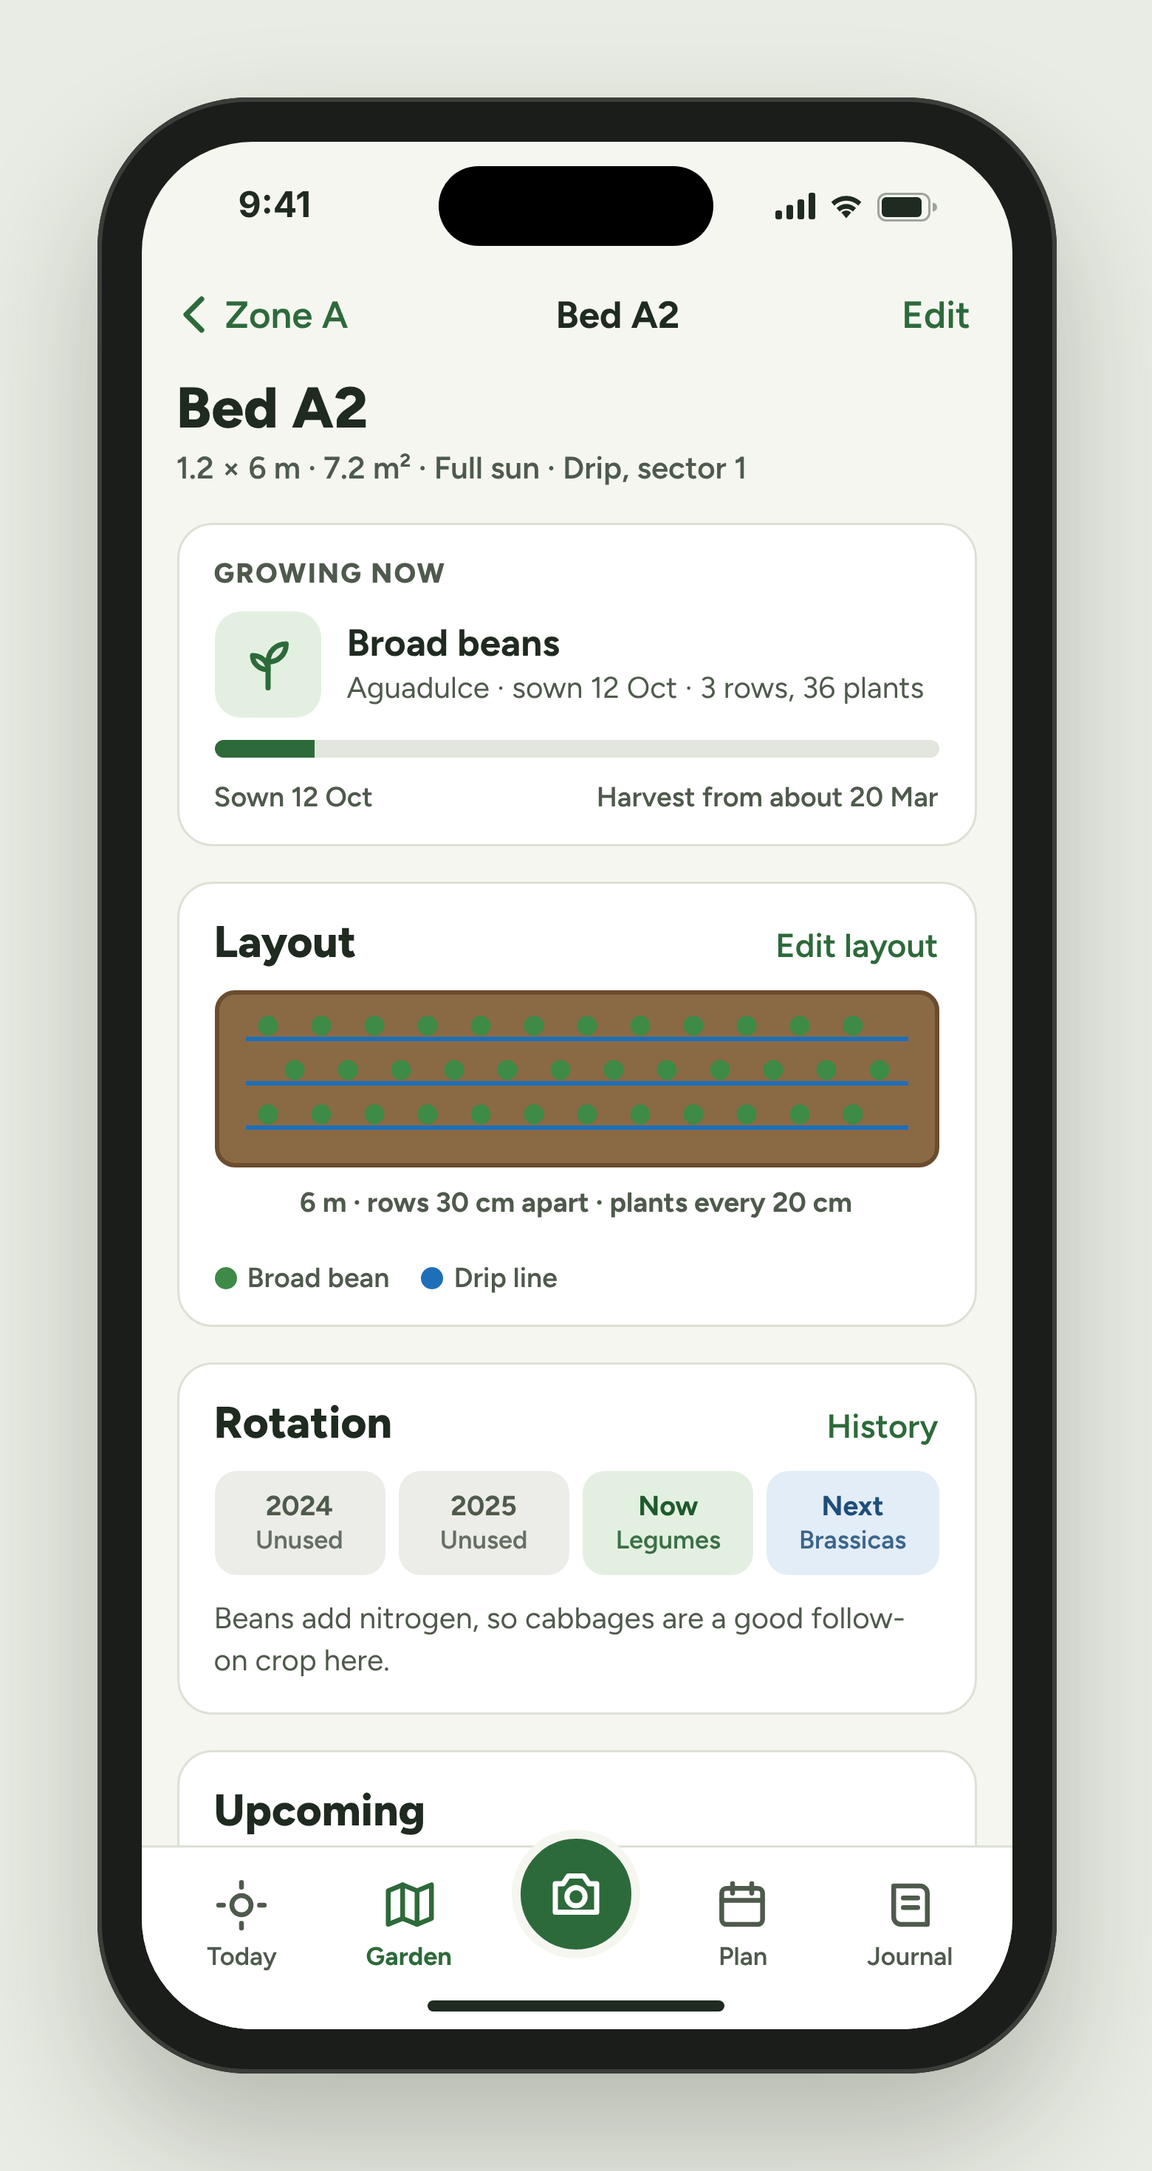
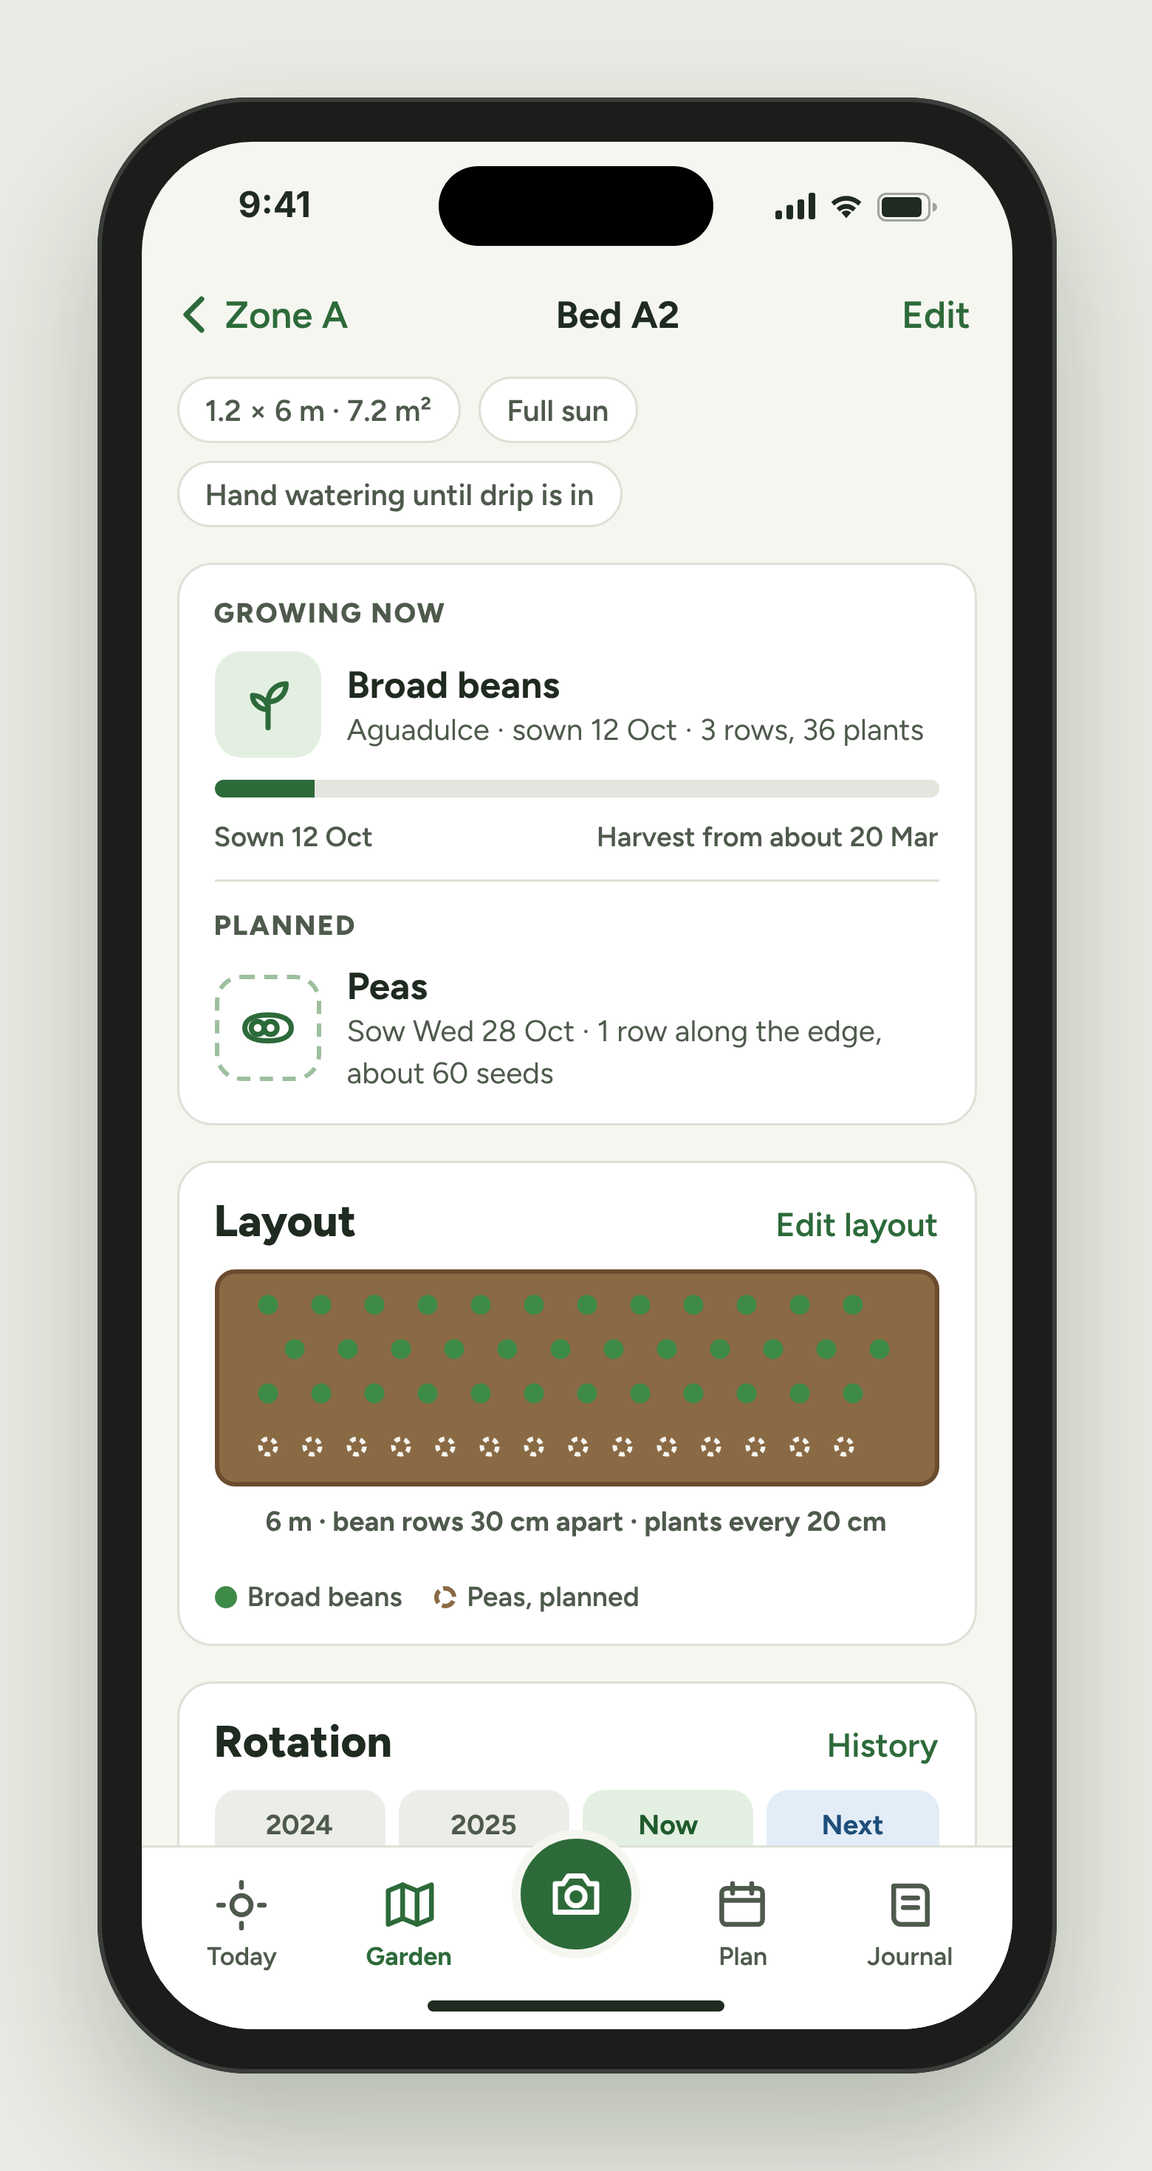
Design C3 bed detail: no duplicate title, fact chips, planned peas, hand watering until drip is in
Claude-Session: https://claude.ai/code/session_015NynAjU4naPZwzmeuGazot

Changed region(s): [[0.1538, 0.1548, 0.8308, 0.8667], [0.4, 0.8357, 0.4308, 0.8667]]

diff --git a/design/source/C3-bed-detail-full.html b/design/source/C3-bed-detail-full.html
@@ -1,0 +1,128 @@
+<!doctype html>
+<html lang="en">
+<head>
+<meta charset="utf-8">
+<title>C3 Bed detail</title>
+<link href="https://fonts.googleapis.com/css2?family=Figtree:wght@400;500;600;700;800&display=swap" rel="stylesheet">
+<link rel="stylesheet" href="frame.css">
+<style>
+  .navbar { position: relative; z-index: 20; height: 48px; padding: 0 12px; display: flex; align-items: center; justify-content: space-between; flex: none; }
+  .navbar .title { font-size: 17px; font-weight: 700; }
+  .navbtn { min-width: 44px; height: 44px; display: flex; align-items: center; justify-content: center; }
+  .content { flex: 1; overflow: hidden; padding: 4px 16px 0; display: flex; flex-direction: column; gap: 16px; }
+  h1 { margin: 0; font-size: 26px; font-weight: 800; line-height: 1.1; }
+  .facts { display: flex; flex-wrap: wrap; gap: 8px; }
+  .facts span { background: #fff; border: 1px solid var(--line); border-radius: 999px; padding: 6px 12px; font-size: 13.5px; font-weight: 600; color: var(--muted); }
+  .meta { font-size: 14px; color: var(--muted); font-weight: 600; margin-top: 4px; }
+  .card { background: #fff; border: 1px solid var(--line); border-radius: 16px; padding: 14px 16px; display: flex; flex-direction: column; gap: 10px; }
+  .eyebrow { font-size: 12.5px; font-weight: 800; letter-spacing: .06em; text-transform: uppercase; color: var(--muted); }
+  h2 { margin: 0; font-size: 20px; font-weight: 800; }
+  .sechead { display: flex; justify-content: space-between; align-items: baseline; }
+  .sechead a { font-size: 15px; font-weight: 600; color: var(--green); text-decoration: none; }
+  .crop { display: flex; gap: 12px; align-items: center; }
+  .cropicon { width: 48px; height: 48px; border-radius: 12px; background: var(--green-soft); display: flex; align-items: center; justify-content: center; flex: none; }
+  .crop b { font-size: 17px; display: block; }
+  .crop span { font-size: 13.5px; color: var(--muted); }
+  .bar { height: 8px; border-radius: 4px; background: #E3E6DE; overflow: hidden; }
+  .bar i { display: block; height: 100%; width: 14%; background: var(--green); }
+  .barlabels { display: flex; justify-content: space-between; font-size: 12.5px; color: var(--muted); font-weight: 600; }
+  .legend { display: flex; gap: 14px; font-size: 12.5px; color: var(--muted); font-weight: 600; }
+  .legend i { display: inline-block; width: 10px; height: 10px; border-radius: 999px; margin-right: 5px; vertical-align: -1px; }
+  .rot { display: grid; grid-template-columns: repeat(4, minmax(0, 1fr)); gap: 6px; }
+  .rot div { border-radius: 10px; padding: 8px 6px; text-align: center; font-size: 12.5px; font-weight: 700; line-height: 1.3; }
+  .rot div span { display: block; font-size: 11.5px; font-weight: 600; opacity: .85; }
+  .task { display: flex; gap: 12px; align-items: center; min-height: 44px; }
+  .box { width: 22px; height: 22px; border-radius: 7px; border: 2px solid #A9B1A4; flex: none; }
+  .task b { font-size: 15px; display: block; }
+  .task span { font-size: 13px; color: var(--muted); }
+  nav.tabs { position: absolute; left: 0; right: 0; bottom: 0; z-index: 40; background: #fff; border-top: 1px solid var(--line); padding: 8px 8px 26px; display: grid; grid-template-columns: repeat(5, minmax(0, 1fr)); align-items: end; }
+  nav.tabs a { text-decoration: none; color: var(--muted); display: flex; flex-direction: column; align-items: center; gap: 3px; font-size: 11.5px; font-weight: 600; min-height: 48px; justify-content: flex-end; }
+  nav.tabs a.on { color: var(--green); font-weight: 700; }
+  nav.tabs .cam { width: 58px; height: 58px; border-radius: 999px; background: var(--green); display: flex; align-items: center; justify-content: center; margin-top: -22px; border: 4px solid var(--bg); }
+</style>
+<style>.stage{height:1300px}.phone{height:1240px}.screen{height:1200px}</style>
+</head>
+<body>
+<div class="stage"><div class="phone"><div class="screen">
+  <div class="island"></div>
+  <div class="status">
+    <span>9:41</span>
+    <span class="icons">
+      <svg width="18" height="12" viewBox="0 0 18 12"><rect x="0" y="8" width="3" height="4" rx="1" fill="#1F2A20"/><rect x="5" y="5.5" width="3" height="6.5" rx="1" fill="#1F2A20"/><rect x="10" y="3" width="3" height="9" rx="1" fill="#1F2A20"/><rect x="15" y="0" width="3" height="12" rx="1" fill="#1F2A20"/></svg>
+      <svg width="16" height="12" viewBox="0 0 16 12"><path d="M8 11.5l2.2-2.6a3.2 3.2 0 0 0-4.4 0z" fill="#1F2A20"/><path d="M3.6 6.9a6.3 6.3 0 0 1 8.8 0l-1.4 1.6a4.2 4.2 0 0 0-6 0z" fill="#1F2A20"/><path d="M1.2 4.2a9.7 9.7 0 0 1 13.6 0l-1.4 1.6a7.6 7.6 0 0 0-10.8 0z" fill="#1F2A20"/></svg>
+      <svg width="27" height="13" viewBox="0 0 27 13"><rect x="0.5" y="0.5" width="23" height="12" rx="3.5" fill="none" stroke="#1F2A20" opacity=".4"/><rect x="2" y="2" width="18" height="9" rx="2" fill="#1F2A20"/><path d="M25 4.5v4a2 2 0 0 0 0-4z" fill="#1F2A20" opacity=".4"/></svg>
+    </span>
+  </div>
+
+  <div class="navbar">
+    <div class="navbtn" aria-label="Back to Zone A" style="gap: 2px; color: var(--green); font-size: 17px; font-weight: 600"><svg width="24" height="24" viewBox="0 0 24 24" fill="none" stroke="#2D6A3A" stroke-width="2.4" stroke-linecap="round" stroke-linejoin="round"><path d="M15 5l-7 7 7 7"/></svg>Zone A</div>
+    <span class="title">Bed A2</span>
+    <div class="navbtn" style="color: var(--green); font-size: 17px; font-weight: 600; padding: 0 6px">Edit</div>
+  </div>
+
+  <div class="content">
+    <div class="facts">
+      <span>1.2 × 6 m · 7.2 m²</span><span>Full sun</span><span>Hand watering until drip is in</span>
+    </div>
+
+    <div class="card">
+      <span class="eyebrow">Growing now</span>
+      <div class="crop">
+        <div class="cropicon"><svg width="28" height="28" viewBox="0 0 24 24" fill="none" stroke="#2D6A3A" stroke-width="2" stroke-linecap="round" stroke-linejoin="round"><path d="M12 21V11"/><path d="M12 11c0-4 3-7 7-7 0 4-3 7-7 7z"/><path d="M12 14c0-3-2.5-5.5-6-5.5 0 3 2.5 5.5 6 5.5z"/></svg></div>
+        <div><b>Broad beans</b><span>Aguadulce · sown 12 Oct · 3 rows, 36 plants</span></div>
+      </div>
+      <div class="bar"><i></i></div>
+      <div class="barlabels"><span>Sown 12 Oct</span><span>Harvest from about 20 Mar</span></div>
+      <div style="height: 1px; background: var(--line); margin: 2px 0"></div>
+      <span class="eyebrow">Planned</span>
+      <div class="crop">
+        <div class="cropicon" style="background: #fff; border: 2px dashed #9DBF9F"><svg width="28" height="28" viewBox="0 0 24 24" fill="none" stroke="#2D6A3A" stroke-width="2" stroke-linecap="round" stroke-linejoin="round"><circle cx="8" cy="12" r="2.5"/><circle cx="13" cy="12" r="2.5"/><path d="M3 12c0-3 3-5 9-5s9 2 9 5-3 5-9 5-9-2-9-5z"/></svg></div>
+        <div><b>Peas</b><span>Sow Wed 28 Oct · 1 row along the edge, about 60 seeds</span></div>
+      </div>
+    </div>
+
+    <div class="card">
+      <div class="sechead"><h2>Layout</h2><a>Edit layout</a></div>
+      <svg width="327" height="130" viewBox="0 0 327 130" role="img" aria-label="Bed from above: three rows of broad beans 30 cm apart and one planned row of peas">
+        <rect x="1" y="1" width="325" height="96" rx="8" fill="#8A6A45" stroke="#6B4C2E" stroke-width="2"/>
+        <g fill="none" stroke="#F5F6F0" stroke-width="2" stroke-dasharray="2.5 2"><circle cx="24" cy="80" r="3.5"/><circle cx="44" cy="80" r="3.5"/><circle cx="64" cy="80" r="3.5"/><circle cx="84" cy="80" r="3.5"/><circle cx="104" cy="80" r="3.5"/><circle cx="124" cy="80" r="3.5"/><circle cx="144" cy="80" r="3.5"/><circle cx="164" cy="80" r="3.5"/><circle cx="184" cy="80" r="3.5"/><circle cx="204" cy="80" r="3.5"/><circle cx="224" cy="80" r="3.5"/><circle cx="244" cy="80" r="3.5"/><circle cx="264" cy="80" r="3.5"/><circle cx="284" cy="80" r="3.5"/></g>
+        <g fill="#3E8A47">
+          <circle cx="24" cy="16" r="4.5"/><circle cx="48" cy="16" r="4.5"/><circle cx="72" cy="16" r="4.5"/><circle cx="96" cy="16" r="4.5"/><circle cx="120" cy="16" r="4.5"/><circle cx="144" cy="16" r="4.5"/><circle cx="168" cy="16" r="4.5"/><circle cx="192" cy="16" r="4.5"/><circle cx="216" cy="16" r="4.5"/><circle cx="240" cy="16" r="4.5"/><circle cx="264" cy="16" r="4.5"/><circle cx="288" cy="16" r="4.5"/>
+          <circle cx="36" cy="36" r="4.5"/><circle cx="60" cy="36" r="4.5"/><circle cx="84" cy="36" r="4.5"/><circle cx="108" cy="36" r="4.5"/><circle cx="132" cy="36" r="4.5"/><circle cx="156" cy="36" r="4.5"/><circle cx="180" cy="36" r="4.5"/><circle cx="204" cy="36" r="4.5"/><circle cx="228" cy="36" r="4.5"/><circle cx="252" cy="36" r="4.5"/><circle cx="276" cy="36" r="4.5"/><circle cx="300" cy="36" r="4.5"/>
+          <circle cx="24" cy="56" r="4.5"/><circle cx="48" cy="56" r="4.5"/><circle cx="72" cy="56" r="4.5"/><circle cx="96" cy="56" r="4.5"/><circle cx="120" cy="56" r="4.5"/><circle cx="144" cy="56" r="4.5"/><circle cx="168" cy="56" r="4.5"/><circle cx="192" cy="56" r="4.5"/><circle cx="216" cy="56" r="4.5"/><circle cx="240" cy="56" r="4.5"/><circle cx="264" cy="56" r="4.5"/><circle cx="288" cy="56" r="4.5"/>
+        </g>
+        <text x="163" y="118" text-anchor="middle" font-family="Figtree, sans-serif" font-size="12.5" font-weight="700" fill="#4E5A4C">6 m · bean rows 30 cm apart · plants every 20 cm</text>
+      </svg>
+      <div class="legend"><span><i style="background:#3E8A47"></i>Broad beans</span><span><i style="background:#fff; border: 2px dashed #8A6A45; box-sizing: border-box"></i>Peas, planned</span></div>
+    </div>
+
+    <div class="card">
+      <div class="sechead"><h2>Rotation</h2><a>History</a></div>
+      <div class="rot">
+        <div style="background:#ECEDE8; color:#4E5A4C">2024<span>Unused</span></div>
+        <div style="background:#ECEDE8; color:#4E5A4C">2025<span>Unused</span></div>
+        <div style="background:var(--green-soft); color:var(--green-ink)">Now<span>Legumes</span></div>
+        <div style="background:#E3EDF7; color:#1E4E7A">Next<span>Brassicas</span></div>
+      </div>
+      <span style="font-size: 13.5px; color: var(--muted); line-height: 1.4">Beans and peas add nitrogen, so cabbages are a good follow-on crop here next autumn.</span>
+    </div>
+
+    <div class="card">
+      <h2>Upcoming</h2>
+      <div class="task"><span class="box"></span><div><b>Check the beans have come up</b><span>This week · 5 min</span></div></div>
+      <div class="task"><span class="box"></span><div><b>Sow peas</b><span>Wed 28 Oct · 45 min</span></div></div>
+      <div class="task"><span class="box"></span><div><b>Add supports for beans and peas</b><span>Mid-Nov · 30 min · canes, string</span></div></div>
+    </div>
+  </div>
+
+  <nav class="tabs" aria-label="Main">
+    <a><svg width="26" height="26" viewBox="0 0 24 24" fill="none" stroke="currentColor" stroke-width="2" stroke-linecap="round" stroke-linejoin="round"><circle cx="12" cy="12" r="4"/><path d="M12 2.5v2M12 19.5v2M2.5 12h2M19.5 12h2"/></svg>Today</a>
+    <a class="on" aria-current="page"><svg width="26" height="26" viewBox="0 0 24 24" fill="none" stroke="currentColor" stroke-width="2" stroke-linecap="round" stroke-linejoin="round"><path d="M3 6l6-2.5 6 2.5 6-2.5v14l-6 2.5-6-2.5-6 2.5z"/><path d="M9 3.5v14M15 6v14"/></svg>Garden</a>
+    <a aria-label="Snap and Ask" style="justify-content: center"><span class="cam"><svg width="28" height="28" viewBox="0 0 24 24" fill="none" stroke="#fff" stroke-width="2" stroke-linecap="round" stroke-linejoin="round"><path d="M4 8h3l2-3h6l2 3h3v11H4z"/><circle cx="12" cy="13" r="3.5"/></svg></span></a>
+    <a><svg width="26" height="26" viewBox="0 0 24 24" fill="none" stroke="currentColor" stroke-width="2" stroke-linecap="round" stroke-linejoin="round"><rect x="3.5" y="5" width="17" height="15" rx="2"/><path d="M3.5 10h17M8 3v4M16 3v4"/></svg>Plan</a>
+    <a><svg width="26" height="26" viewBox="0 0 24 24" fill="none" stroke="currentColor" stroke-width="2" stroke-linecap="round" stroke-linejoin="round"><path d="M5 4h11a3 3 0 0 1 3 3v13H8a3 3 0 0 1-3-3z"/><path d="M9 9h6M9 13h6"/></svg>Journal</a>
+  </nav>
+  <div class="home"></div>
+</div></div></div>
+</body>
+</html>

diff --git a/design/source/C3-bed-detail.html b/design/source/C3-bed-detail.html
@@ -11,6 +11,8 @@
   .navbtn { min-width: 44px; height: 44px; display: flex; align-items: center; justify-content: center; }
   .content { flex: 1; overflow: hidden; padding: 4px 16px 0; display: flex; flex-direction: column; gap: 16px; }
   h1 { margin: 0; font-size: 26px; font-weight: 800; line-height: 1.1; }
+  .facts { display: flex; flex-wrap: wrap; gap: 8px; }
+  .facts span { background: #fff; border: 1px solid var(--line); border-radius: 999px; padding: 6px 12px; font-size: 13.5px; font-weight: 600; color: var(--muted); }
   .meta { font-size: 14px; color: var(--muted); font-weight: 600; margin-top: 4px; }
   .card { background: #fff; border: 1px solid var(--line); border-radius: 16px; padding: 14px 16px; display: flex; flex-direction: column; gap: 10px; }
   .eyebrow { font-size: 12.5px; font-weight: 800; letter-spacing: .06em; text-transform: uppercase; color: var(--muted); }
@@ -58,9 +60,8 @@
   </div>
 
   <div class="content">
-    <div>
-      <h1>Bed A2</h1>
-      <div class="meta">1.2 × 6 m · 7.2 m² · Full sun · Drip, sector 1</div>
+    <div class="facts">
+      <span>1.2 × 6 m · 7.2 m²</span><span>Full sun</span><span>Hand watering until drip is in</span>
     </div>
 
     <div class="card">
@@ -71,21 +72,27 @@
       </div>
       <div class="bar"><i></i></div>
       <div class="barlabels"><span>Sown 12 Oct</span><span>Harvest from about 20 Mar</span></div>
+      <div style="height: 1px; background: var(--line); margin: 2px 0"></div>
+      <span class="eyebrow">Planned</span>
+      <div class="crop">
+        <div class="cropicon" style="background: #fff; border: 2px dashed #9DBF9F"><svg width="28" height="28" viewBox="0 0 24 24" fill="none" stroke="#2D6A3A" stroke-width="2" stroke-linecap="round" stroke-linejoin="round"><circle cx="8" cy="12" r="2.5"/><circle cx="13" cy="12" r="2.5"/><path d="M3 12c0-3 3-5 9-5s9 2 9 5-3 5-9 5-9-2-9-5z"/></svg></div>
+        <div><b>Peas</b><span>Sow Wed 28 Oct · 1 row along the edge, about 60 seeds</span></div>
+      </div>
     </div>
 
     <div class="card">
       <div class="sechead"><h2>Layout</h2><a>Edit layout</a></div>
-      <svg width="327" height="112" viewBox="0 0 327 112" role="img" aria-label="Bed from above: three rows of broad beans 30 cm apart, drip line beside each row">
-        <rect x="1" y="1" width="325" height="78" rx="8" fill="#8A6A45" stroke="#6B4C2E" stroke-width="2"/>
-        <g stroke="#1E6FB8" stroke-width="2" stroke-dasharray="1 0"><path d="M14 22 H313"/><path d="M14 42 H313"/><path d="M14 62 H313"/></g>
+      <svg width="327" height="130" viewBox="0 0 327 130" role="img" aria-label="Bed from above: three rows of broad beans 30 cm apart and one planned row of peas">
+        <rect x="1" y="1" width="325" height="96" rx="8" fill="#8A6A45" stroke="#6B4C2E" stroke-width="2"/>
+        <g fill="none" stroke="#F5F6F0" stroke-width="2" stroke-dasharray="2.5 2"><circle cx="24" cy="80" r="3.5"/><circle cx="44" cy="80" r="3.5"/><circle cx="64" cy="80" r="3.5"/><circle cx="84" cy="80" r="3.5"/><circle cx="104" cy="80" r="3.5"/><circle cx="124" cy="80" r="3.5"/><circle cx="144" cy="80" r="3.5"/><circle cx="164" cy="80" r="3.5"/><circle cx="184" cy="80" r="3.5"/><circle cx="204" cy="80" r="3.5"/><circle cx="224" cy="80" r="3.5"/><circle cx="244" cy="80" r="3.5"/><circle cx="264" cy="80" r="3.5"/><circle cx="284" cy="80" r="3.5"/></g>
         <g fill="#3E8A47">
           <circle cx="24" cy="16" r="4.5"/><circle cx="48" cy="16" r="4.5"/><circle cx="72" cy="16" r="4.5"/><circle cx="96" cy="16" r="4.5"/><circle cx="120" cy="16" r="4.5"/><circle cx="144" cy="16" r="4.5"/><circle cx="168" cy="16" r="4.5"/><circle cx="192" cy="16" r="4.5"/><circle cx="216" cy="16" r="4.5"/><circle cx="240" cy="16" r="4.5"/><circle cx="264" cy="16" r="4.5"/><circle cx="288" cy="16" r="4.5"/>
           <circle cx="36" cy="36" r="4.5"/><circle cx="60" cy="36" r="4.5"/><circle cx="84" cy="36" r="4.5"/><circle cx="108" cy="36" r="4.5"/><circle cx="132" cy="36" r="4.5"/><circle cx="156" cy="36" r="4.5"/><circle cx="180" cy="36" r="4.5"/><circle cx="204" cy="36" r="4.5"/><circle cx="228" cy="36" r="4.5"/><circle cx="252" cy="36" r="4.5"/><circle cx="276" cy="36" r="4.5"/><circle cx="300" cy="36" r="4.5"/>
           <circle cx="24" cy="56" r="4.5"/><circle cx="48" cy="56" r="4.5"/><circle cx="72" cy="56" r="4.5"/><circle cx="96" cy="56" r="4.5"/><circle cx="120" cy="56" r="4.5"/><circle cx="144" cy="56" r="4.5"/><circle cx="168" cy="56" r="4.5"/><circle cx="192" cy="56" r="4.5"/><circle cx="216" cy="56" r="4.5"/><circle cx="240" cy="56" r="4.5"/><circle cx="264" cy="56" r="4.5"/><circle cx="288" cy="56" r="4.5"/>
         </g>
-        <text x="163" y="100" text-anchor="middle" font-family="Figtree, sans-serif" font-size="12.5" font-weight="700" fill="#4E5A4C">6 m · rows 30 cm apart · plants every 20 cm</text>
+        <text x="163" y="118" text-anchor="middle" font-family="Figtree, sans-serif" font-size="12.5" font-weight="700" fill="#4E5A4C">6 m · bean rows 30 cm apart · plants every 20 cm</text>
       </svg>
-      <div class="legend"><span><i style="background:#3E8A47"></i>Broad bean</span><span><i style="background:#1E6FB8"></i>Drip line</span></div>
+      <div class="legend"><span><i style="background:#3E8A47"></i>Broad beans</span><span><i style="background:#fff; border: 2px dashed #8A6A45; box-sizing: border-box"></i>Peas, planned</span></div>
     </div>
 
     <div class="card">
@@ -96,13 +103,14 @@
         <div style="background:var(--green-soft); color:var(--green-ink)">Now<span>Legumes</span></div>
         <div style="background:#E3EDF7; color:#1E4E7A">Next<span>Brassicas</span></div>
       </div>
-      <span style="font-size: 13.5px; color: var(--muted); line-height: 1.4">Beans add nitrogen, so cabbages are a good follow-on crop here.</span>
+      <span style="font-size: 13.5px; color: var(--muted); line-height: 1.4">Beans and peas add nitrogen, so cabbages are a good follow-on crop here next autumn.</span>
     </div>
 
     <div class="card">
       <h2>Upcoming</h2>
-      <div class="task"><span class="box"></span><div><b>Check germination</b><span>This week · 5 min</span></div></div>
-      <div class="task"><span class="box"></span><div><b>Add support canes</b><span>Mid-Nov · 30 min</span></div></div>
+      <div class="task"><span class="box"></span><div><b>Check the beans have come up</b><span>This week · 5 min</span></div></div>
+      <div class="task"><span class="box"></span><div><b>Sow peas</b><span>Wed 28 Oct · 45 min</span></div></div>
+      <div class="task"><span class="box"></span><div><b>Add supports for beans and peas</b><span>Mid-Nov · 30 min · canes, string</span></div></div>
     </div>
   </div>
 
